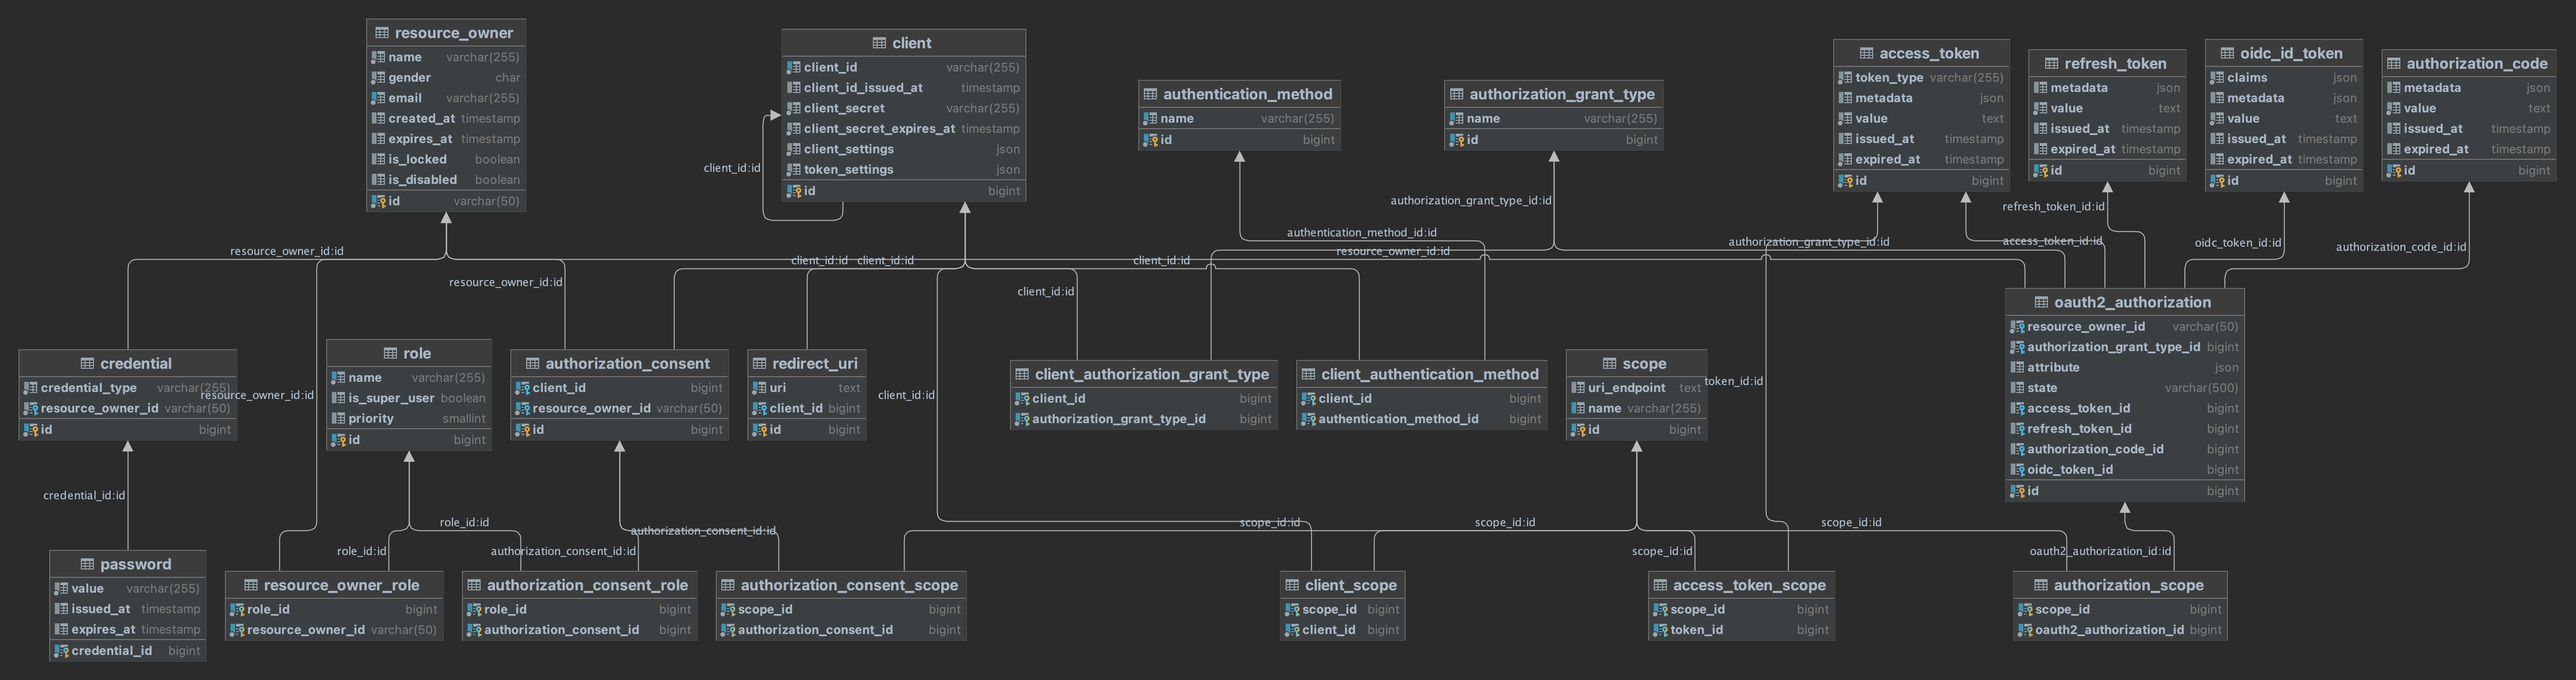
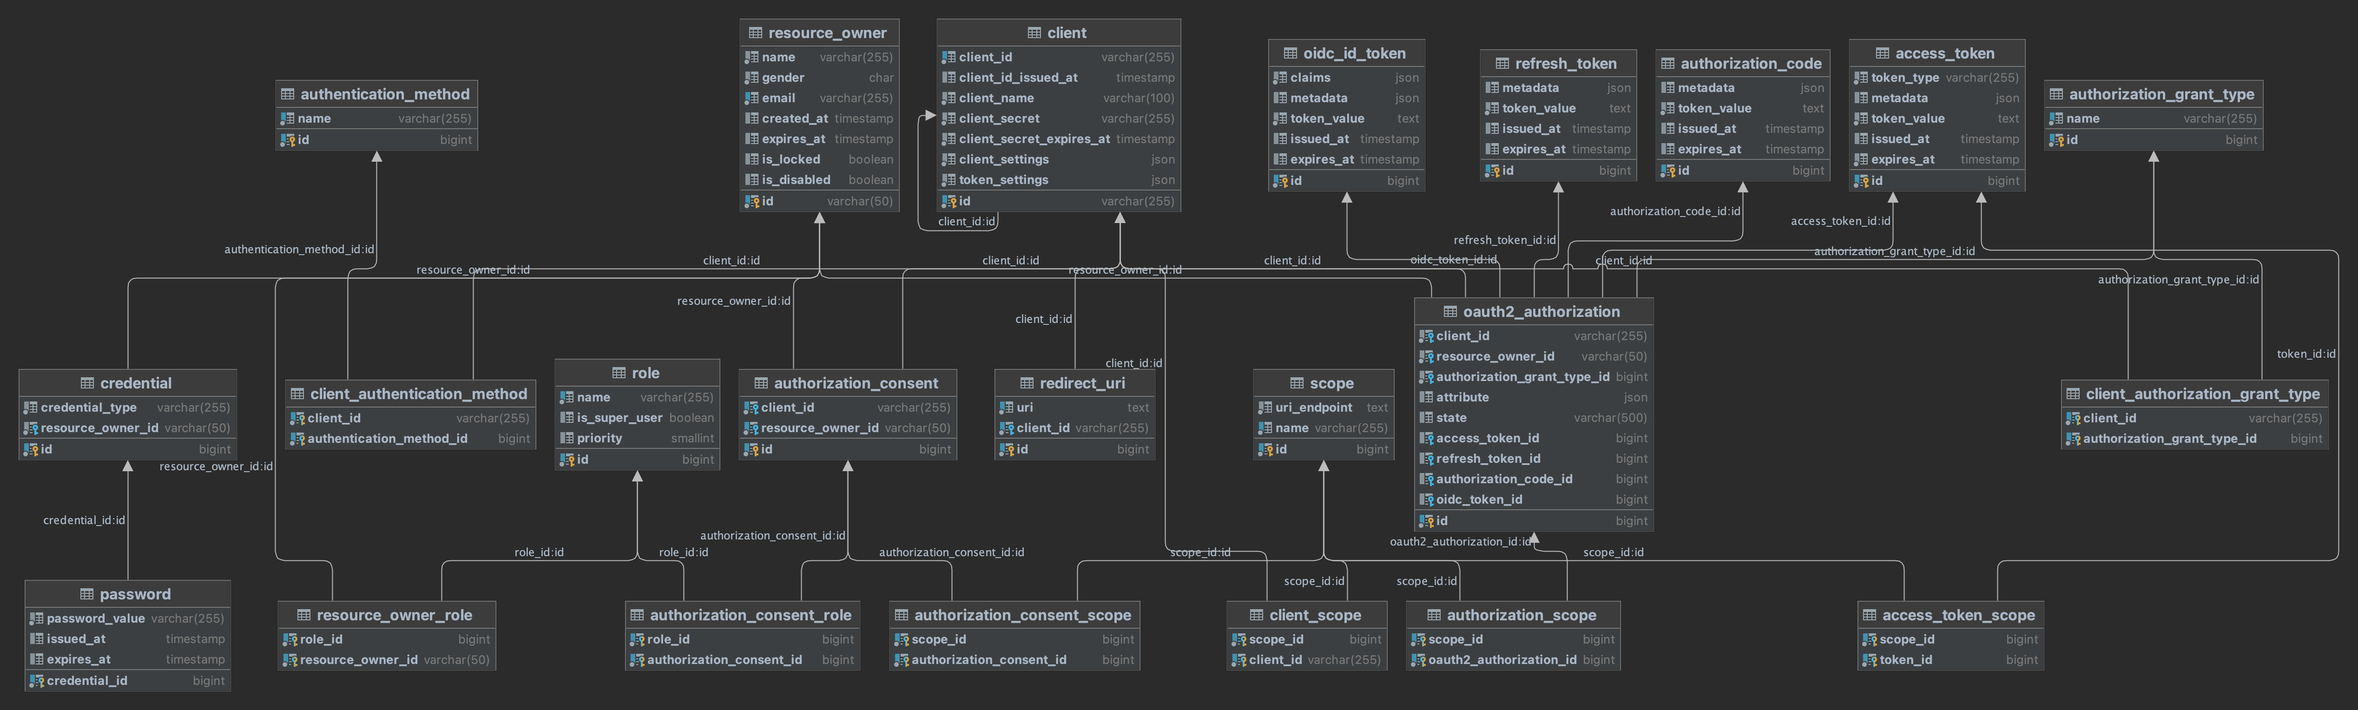
fix : 누락된 데이터베이스 컬럼 추가, 오류수정
- client 테이블의 id를 참조하는 외래키들의 타입이 잘못 적혀 있었음
- authorization 테이블의 client 의존 관계가 설정되지 않아 있었음

diff --git a/authorization server/src/main/java/click/porito/commons/auth2authserver/domains/oauth2_client/entity/OAuth2AuthorizationEntity.java b/authorization server/src/main/java/click/porito/commons/auth2authserver/domains/oauth2_client/entity/OAuth2AuthorizationEntity.java
@@ -29,6 +29,10 @@ public class OAuth2AuthorizationEntity {
     private Long id;
 
     @ManyToOne(fetch = FetchType.LAZY, optional = false)
+    @JoinColumn(name = "client_id", nullable = false)
+    private RegisteredClientEntity registeredClientEntity;
+
+    @ManyToOne(fetch = FetchType.LAZY, optional = false)
     @JoinColumn(name = "resource_owner_id", nullable = false)
     private ResourceOwnerEntity resourceOwnerEntity;
 
